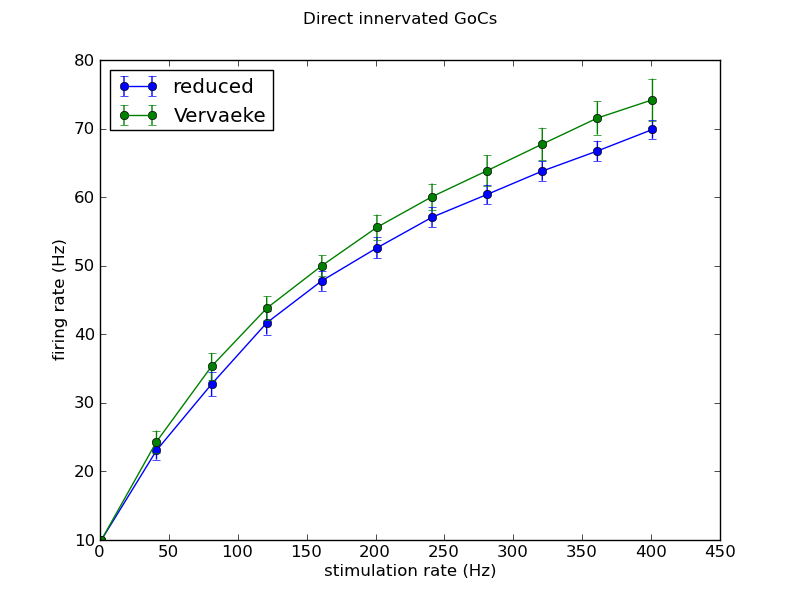
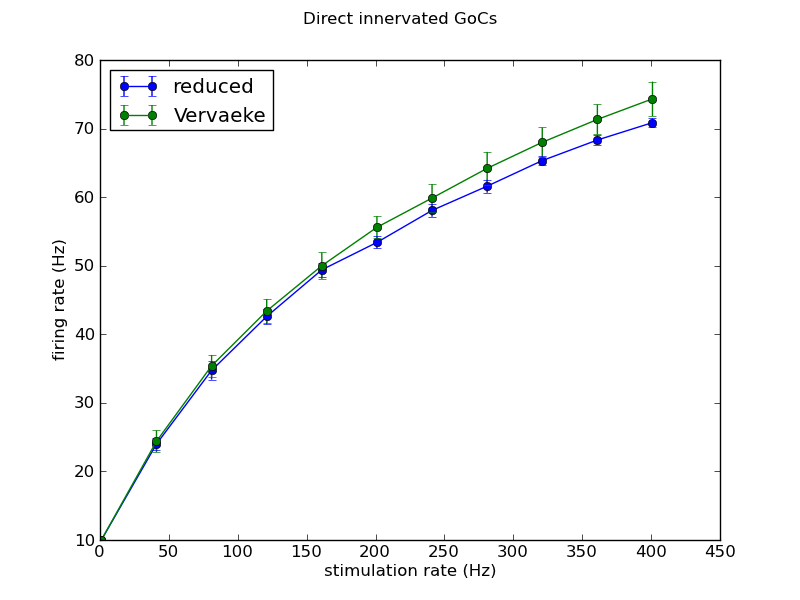
Fixed missing GJ netconn and generally improved GJs for reduced model.
Now the first segment of the apical dendrites in the reduced model is
considered as being still in the molecular layer. This is to better
reproduce the choices made for the detailed model, and it plays an
important part in gap junction connectivity. As a consequence, the
four GJ connections are organised in the following way:

'GCL' GJs -> basolateral dends and first compartment of apical dends
'MF1' GJs -> second compartment of apical dends
'MF2' and 'MF3' GJs -> third compartment of apical dends

Note how this changes the network I/O relationships.

diff --git a/neuroConstruct/scripts/rate_IO_network.py b/neuroConstruct/scripts/rate_IO_network.py
@@ -21,7 +21,7 @@ project_path = '../GJGolgi_ReducedMorph.ncx'
 project_file = File(project_path)
 project = pm.loadProject(project_file)
 
-stim_source = 'pf'
+stim_source = 'mf'
 timestamp_prefix = 'net_' + stim_source
 
 sim_config_name = 'network_IO_' + stim_source
@@ -52,7 +52,7 @@ for rate in stim_rate_range:
 	project.elecInputInfo.updateStim(stim)
     # generate and compile neuron files
     print "Generating NEURON scripts..."
-    project.neuronFileManager.setSuggestedRemoteRunTime(20)
+    project.neuronFileManager.setSuggestedRemoteRunTime(30)
     simulator_seed = random.getrandbits(32)
     project.neuronFileManager.generateTheNeuronFiles(sim_config, None, NeuronFileManager.RUN_HOC,simulator_seed)
     compile_process = ProcessManager(project.neuronFileManager.getMainHocFile())
@@ -61,7 +61,7 @@ for rate in stim_rate_range:
     if compile_success:
 	print "Submitting simulation reference " + sim_ref
 	pm.doRunNeuron(sim_config)
-	time.sleep(2) # Wait for sim to be kicked off
+	time.sleep(5) # Wait for sim to be kicked off
 	if not sim_config.getMpiConf().isRemotelyExecuted():
 	    # if running locally, never have more than one sim running
 	    # at the same time

diff --git a/neuroConstruct/scripts/rate_IO_network_plot.py b/neuroConstruct/scripts/rate_IO_network_plot.py
@@ -2,7 +2,6 @@
 # -*- coding: utf-8 -*-
 ## Network I/O plotting script.
 import sys
-import glob
 import numpy as np
 from matplotlib import pyplot as plt
 
